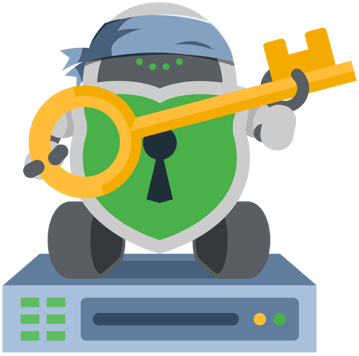
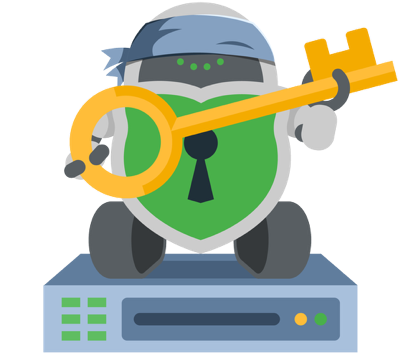
Pad the zero-knowledge-bot asset left so the bot body is centered despite the key

diff --git a/layouts/pricing/single.html b/layouts/pricing/single.html
@@ -162,7 +162,7 @@
           <div class="flex justify-between items-center p-4 border-b border-primary">
             <h3>
               <div class="flex items-center">
-                <img src="/img/zero-knowledge-bot.svg" class="hidden md:block h-8 mr-2 aspect-square" alt="Logo"/>
+                <img src="/img/zero-knowledge-bot.svg" class="hidden md:block h-8 mr-2 aspect-988/877" alt="Logo"/>
                 <span class="font-headline font-bold text-primary pb-px">CRYPTOMATOR HUB</span>
               </div>
             </h3>
@@ -229,7 +229,7 @@
           <div class="flex justify-between items-center p-4 border-b border-primary">
             <h3>
               <div class="flex items-center">
-                <img src="/img/zero-knowledge-bot.svg" class="hidden md:block h-8 mr-2 aspect-square" alt="Logo"/>
+                <img src="/img/zero-knowledge-bot.svg" class="hidden md:block h-8 mr-2 aspect-988/877" alt="Logo"/>
                 <span class="font-headline font-bold text-primary pb-px">CRYPTOMATOR HUB</span>
               </div>
             </h3>
@@ -320,7 +320,7 @@
             <div class="flex-1">
               <div class="flex items-center gap-3 mb-3">
                 <div class="flex items-center">
-                  <img src="/img/zero-knowledge-bot.svg" class="h-8 mr-2 aspect-square" alt="Logo"/>
+                  <img src="/img/zero-knowledge-bot.svg" class="h-8 mr-2 aspect-988/877" alt="Logo"/>
                   <span class="font-headline font-bold text-primary pb-px">CRYPTOMATOR HUB</span>
                 </div>
                 <div class="inline-flex px-4 py-1 rounded-full text-sm font-medium tracking-wide uppercase bg-primary-l2 text-dark">
@@ -398,7 +398,7 @@
           <div>
             <h3 class="flex items-center gap-3 mb-4">
               <div class="flex items-center">
-                <img src="/img/zero-knowledge-bot.svg" class="hidden md:block h-8 mr-2 aspect-square" alt="Logo"/>
+                <img src="/img/zero-knowledge-bot.svg" class="hidden md:block h-8 mr-2 aspect-988/877" alt="Logo"/>
                 <span class="font-headline font-bold text-primary pb-px">CRYPTOMATOR HUB</span>
               </div>
               <div class="inline-flex px-4 py-1 rounded-full text-xs lg:text-sm font-medium tracking-wide uppercase bg-primary-l2 text-dark">

diff --git a/layouts/solutions/single.html b/layouts/solutions/single.html
@@ -4,7 +4,7 @@
       <div class="max-w-4xl mx-auto">
         <div class="flex flex-wrap items-center justify-center gap-4 mb-6">
           <div class="flex items-center">
-            <img src="/img/zero-knowledge-bot.svg" class="h-8 aspect-square" alt="Logo"/>
+            <img src="/img/zero-knowledge-bot.svg" class="h-8 aspect-988/877" alt="Logo"/>
             <span class="font-headline font-bold text-primary ml-2 pb-px">CRYPTOMATOR HUB</span>
           </div>
           <span class="bg-primary text-white px-3 py-1 rounded-full text-sm font-medium">{{ .Title }}</span>

diff --git a/layouts/for-teams/single.html b/layouts/for-teams/single.html
@@ -12,7 +12,7 @@
       <div class="w-full md:w-2/3 lg:w-3/5">
         <div class="flex flex-wrap items-center gap-4 mb-4">
           <div class="flex items-center">
-            <img src="/img/zero-knowledge-bot.svg" class="h-8 aspect-square" alt="Logo"/>
+            <img src="/img/zero-knowledge-bot.svg" class="h-8 aspect-988/877" alt="Logo"/>
             <span class="font-headline font-bold text-primary ml-2 pb-px">CRYPTOMATOR HUB</span>
           </div>
           <div class="px-4 py-1 rounded-full text-xs lg:text-sm font-medium bg-red-600 text-white">

diff --git a/layouts/index.html b/layouts/index.html
@@ -223,7 +223,7 @@
         <div class="flex justify-between items-center p-4 border-b border-tertiary2">
           <h3>
             <div class="flex items-center">
-              <img src="/img/zero-knowledge-bot.svg" class="hidden md:block h-8 mr-2 aspect-887/877" alt="Logo"/>
+              <img src="/img/zero-knowledge-bot.svg" class="hidden md:block h-8 mr-2 aspect-988/877" alt="Logo"/>
               <span class="font-headline font-bold text-tertiary2 pb-px">CRYPTOMATOR HUB</span>
             </div>
           </h3>

diff --git a/layouts/downloads/list.html b/layouts/downloads/list.html
@@ -30,7 +30,7 @@
       </div>
       <div class="w-full md:w-2/3 lg:w-3/5">
         <div class="flex items-center mb-4">
-          <img src="/img/zero-knowledge-bot.svg" class="h-7 aspect-square" alt="Logo"/>
+          <img src="/img/zero-knowledge-bot.svg" class="h-7 aspect-988/877" alt="Logo"/>
           <span class="font-headline font-bold text-primary ml-2 pb-px">CRYPTOMATOR HUB</span>
         </div>
         <h2 class="font-h2 text-white mb-4">{{ i18n "hub_header_title" . | safeHTML }}</h2>

diff --git a/assets/css/hero.css b/assets/css/hero.css
@@ -394,7 +394,9 @@
   }
 
   .hero-hub-scene .hero-scene-logo-img {
-    width: 52px;
+    /* 52px like the old unpadded asset would get, scaled up by the canvas's
+       key-centering padding (988/887) so the drawn bot keeps its size. */
+    width: 58px;
     animation: hero-hub-bot-wobble var(--scene-cycle) ease-in-out infinite;
   }
 
